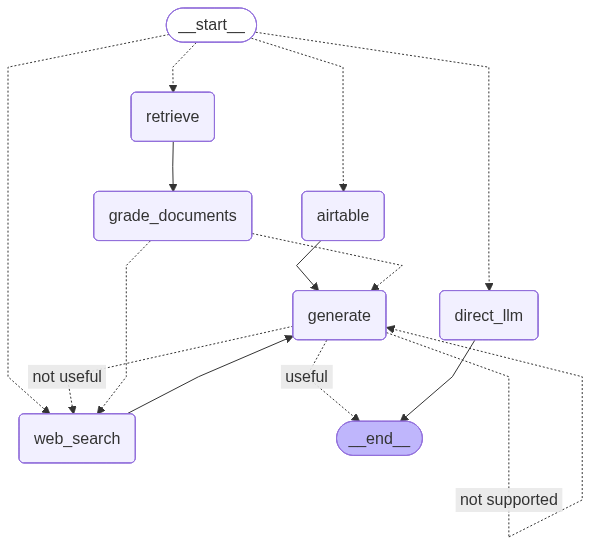
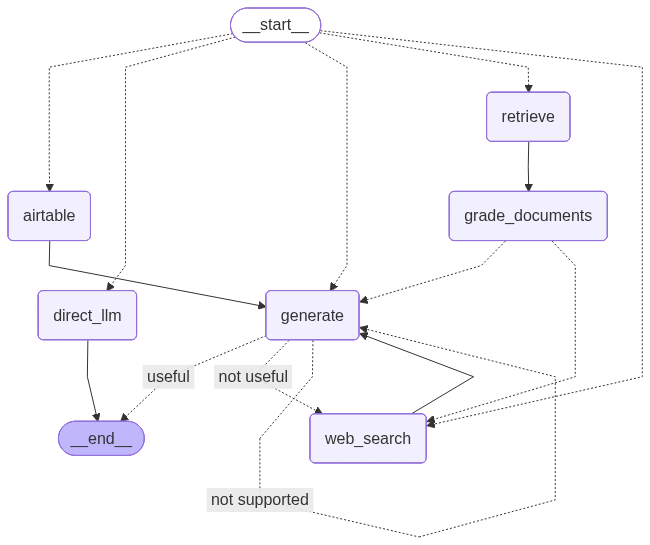
MessageHistory logic and gitignore configuration

diff --git a/graph/chains/router.py b/graph/chains/router.py
@@ -11,7 +11,7 @@ class RouteQuery(BaseModel):
     """
      Route a user query to most relevant datasource.
     """
-    datasource: Literal["vectorstore","websearch","airtable","direct_response"]= Field(
+    datasource: Literal["vectorstore","websearch","airtable","direct_response","chat_history"]= Field(
         ...,
         description="Given a user question choose to route  it websearch, vectorstore,airtable or direct response."
     )
@@ -26,7 +26,7 @@ llm =ChatGoogleGenerativeAI(model="gemini-2.5-flash",temperature=0)
 structured_llm_router=llm.with_structured_output(RouteQuery)
 
 
-system_prompt="""You are an expert at routing a user question to the correct data source.
+system_instructions="""You are an expert at routing a user question to the correct data source.
 The user is asking questions about 'Gökcen Tarım' (an agricultural supply store) or general farming topics.
 
 Use the following criteria to decide the datasource:
@@ -36,6 +36,8 @@ Use the following criteria to decide the datasource:
    - Stock availability checks.
    - **Lead generation or contact requests** (e.g., 'call me', 'save my number', 'I want to register'). 
    *Note: If the user asks for a price of a generic commodity like 'stock market wheat price', use web_search.*
+   -If user wants to see all products in stock.
+   
    When routing to 'airtable':
 - If it's a price/stock query: Extract the exact product name (e.g., 'Üre', '15.15.15', 'AS') into 'product_name'.
 - If it's a lead/contact request: Extract 'name', 'surname', and 'phone' into the 'customer_info' dictionary.
@@ -45,38 +47,79 @@ Use the following criteria to decide the datasource:
    - **Company Info:** History, vision, mission, return policies, contact address.
    - Example: 'Domatese ne zaman gübre atılır?', 'Buğday ekim aralığı nedir?', 'Vizyonunuz ne?'.
    
-3. **'web_search'**: Use this for **Live/Dynamic Data**:
+    
+    
+3. **'chat_history'**: Use this when the message requires MEMORY.
+
+CRITICAL RULES:
+- If the user asks about identity, memory, name, past messages, preferences, or earlier context, ALWAYS choose 'chat_history'.
+- NEVER route identity-related or memory-related questions to 'direct_response'.
+
+Trigger phrases include (not limited to):
+- "my name"
+- "what is my name"
+- "benim adım ne"
+- "ne demiştim"
+- "hatırlıyor musun"
+- "daha önce"
+- "önce"
+- "beni tanıyor musun"
+- "remember"
+- "what did I say"
+- "who am I"
+ 
+4. **'web_search'**: Use this for **Live/Dynamic Data**:
    - Weather forecasts (e.g., 'İzmir hava durumu').
    - Current news, government announcements, or subsidies.
    - Real-time commodity market prices (e.g., 'Borsada pamuk fiyatı').
    - Questions about topics NOT covered in standard farming manuals.
 
-4. **'direct_response'**: Use this for:
-   - Casual conversation (e.g., 'Merhaba', 'Nasılsın').
-   - Gratitude or simple closing remarks.
+5. **'direct_response'**: Use this ONLY if:
+- The question does NOT fit any category above.
+- The question does NOT require memory.
+- It is completely standalone.
+
    
-5. **CHAT HISTORY & CONTEXT:** 
-    - Any question referring to the user ("my name"), previous messages ("what did I say?"), or context.
 
 Output only the datasource name.
+
+Examples:
+User: Tell me a joke  
+→ direct_response
+
+User: What is AI?  
+→ direct_response
+
+---
+
+OUTPUT FORMAT:
+Return ONLY one datasource name:
+- airtable
+- vectorstore
+- chat_history
+- web_search
+- direct_response
+
+Do NOT explain anything.
+Do NOT add extra text.
 
 
 
 Always prioritize 'airtable' for specific price/stock questions regarding Gökcen Tarım's products.
 """
-route_prompt = (ChatPromptTemplate
-(
+route_prompt = ChatPromptTemplate.from_messages(
+
     [
-    ("system", system_prompt ),
+    ("system", system_instructions ),
     ("human", "{question}")
     ]
-))
+)
 
 question_router = route_prompt | structured_llm_router
 
 if __name__ == "__main__":
     # Ürün fiyatı soralım ki product_name dolsun
-    test_query = "Üre gübresinin torba fiyatı ne kadar?"
+    test_query = "Benim adım ne  ?"
     result = question_router.invoke({"question": test_query})
 
     print(f"Datasource: {result.datasource}")

diff --git a/graph/nodes/generation_node.py b/graph/nodes/generation_node.py
@@ -1,3 +1,4 @@
+from langchain_core.messages import AIMessage
 
 from graph.chains.generation import generation_chain
 from graph.state import GraphState
@@ -11,8 +12,10 @@ def generate(state: GraphState) -> Dict[str, Any]:
     tool_output = state.get("tool_output", "")
     messages = state.get("messages", [])
     chat_history_str = ""
+    print(f"DEBUG: Mevcut Mesaj Sayısı: {len(messages)}")
 
-    for m in messages[:-1]:
+
+    for m in messages:
         role = "User" if m.type == "human" else "Assistant"
         chat_history_str += f"{role}: {m.content}\n"
 
@@ -20,5 +23,7 @@ def generate(state: GraphState) -> Dict[str, Any]:
         {"context": document,"question":question,"tool_output":tool_output,"chat_history": chat_history_str}
     )
 
+    res_message = AIMessage(content=generation)
 
-    return {"generation":generation}
+
+    return {"generation":generation,"messages": [res_message]}

diff --git a/graph/graph.py b/graph/graph.py
@@ -34,6 +34,9 @@ def route_question(state: GraphState):
     elif source.datasource.lower() == "direct_response":
         print("---Route LLM---")
         return DIRECT_LLM
+    elif source.datasource.lower() == "chat_history":
+        print("---Route Chat-History in Generate node---")
+        return GENERATE
     else:
         print("---RAG---")
         return RETRIEVE
@@ -95,6 +98,8 @@ workflow.add_node(DIRECT_LLM, direct_llm_node)
         DIRECT_LLM:DIRECT_LLM,
         WEBSEARCH:WEBSEARCH,
         RETRIEVE: RETRIEVE,
+        #chat_hist routing
+        GENERATE:GENERATE,
 
     }
 ))

diff --git a/graph/nodes/direct_llm_node.py b/graph/nodes/direct_llm_node.py
@@ -31,10 +31,10 @@ def direct_llm_node(state: GraphState) -> Dict[str, Any]:
 
         Instructions:
         1. Respond politely and briefly.
-        2. If it's a greeting, greet them back warmly in Turkish.
+        2. If it's a greeting, greet them back warmly in User's Language.
         3. If they ask who you are, explain that you are the Gökcen Tarım AI Assistant.
         4. Do not provide technical agricultural advice here; just handle the conversation.
-        5. Always answer in Turkish.
+        5. Always answer in User's Language.
 
         Answer:"""
     )

diff --git a/graph/chains/generation.py b/graph/chains/generation.py
@@ -20,7 +20,7 @@ customer_extractor = llm.with_structured_output(CustomerInfo)
 template  = """You are the official AI assistant of 'Gökcen Tarım', a professional agricultural supply store.
 
     Use the provided information to answer the user's question. 
-    You have two sources of information:
+    You have three sources of information:
     1. Technical Documents (Context): {context}
     2. Real-time Price/Stock Data (Airtable): {tool_output}
     3. Chat History: {chat_history}

diff --git a/graph/state.py b/graph/state.py
@@ -15,7 +15,7 @@ class GraphState(TypedDict):
         route: The decision made by the Router (e.g., 'vectorstore', 'web_search').
         tool_output: Raw data returned from external tools (Airtable, etc.).
     """
-    messages: List[BaseMessage]
+    messages: Annotated[List[BaseMessage], operator.add]
     question: str
     documents: Annotated[List[str], operator.add]
     generation: str

diff --git a/graph/chains/retrieval_grader.py b/graph/chains/retrieval_grader.py
@@ -6,7 +6,7 @@ from sympy.physics.units import temperature
 from ingestion import retriever
 
 
-from graph.chains.router import system_prompt
+
 
 load_dotenv()
 
